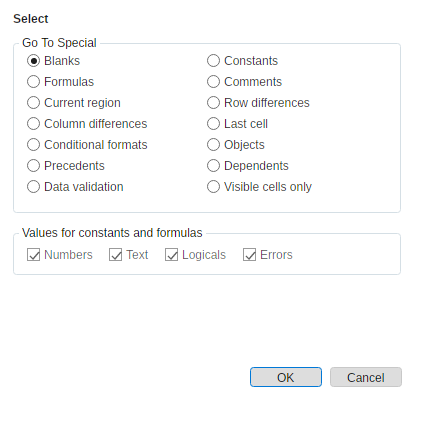
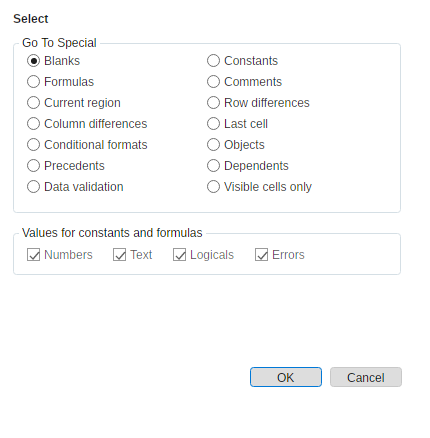
fix(freex): align go to special value options

Changed region(s): [[0.2419, 0.5639, 0.7256, 0.5936]]

diff --git a/tests/FreeX.App.Avalonia.Tests/ParityCaptureTests.cs b/tests/FreeX.App.Avalonia.Tests/ParityCaptureTests.cs
@@ -436,6 +436,8 @@ public sealed class ParityCaptureTests
                 CountExactColorOnRow(image, 274, red: 213, green: 223, blue: 229)
                     .Should().BeGreaterThan(300,
                         "the bottom value-type border should remain at the WPF-aligned action-row separation");
+                var checkboxAnchors = FindDarkRunStartsOnRow(image, 248, minimumLength: 12);
+                checkboxAnchors.Should().Equal([27, 113, 173, 255]);
 
                 window.Close();
             }, CancellationToken.None);
@@ -552,6 +554,39 @@ public sealed class ParityCaptureTests
         }
 
         return count;
+    }
+
+    private static IReadOnlyList<int> FindDarkRunStartsOnRow(
+        PixelImage image,
+        int y,
+        int minimumLength)
+    {
+        var starts = new List<int>();
+        var runStart = -1;
+
+        for (var x = 0; x <= image.Width; x++)
+        {
+            var isDark = false;
+            if (x < image.Width)
+            {
+                var offset = (y * image.Width + x) * 4;
+                isDark = image.Pixels[offset + 3] == 255
+                    && image.Pixels[offset] + image.Pixels[offset + 1] + image.Pixels[offset + 2] < 660;
+            }
+
+            if (isDark && runStart < 0)
+            {
+                runStart = x;
+            }
+            else if (!isDark && runStart >= 0)
+            {
+                if (x - runStart >= minimumLength)
+                    starts.Add(runStart);
+                runStart = -1;
+            }
+        }
+
+        return starts;
     }
 
     private static void TryDeleteDirectory(string path)

diff --git a/tests/FreeX.App.Avalonia.Tests/DialogVisualParitySourceTests.cs b/tests/FreeX.App.Avalonia.Tests/DialogVisualParitySourceTests.cs
@@ -34,7 +34,6 @@ public sealed class DialogVisualParitySourceTests
         source.Should().Contain("GoToSpecialDialogPlanner.AvaloniaValueTypeSpacing");
         source.Should().Contain("GoToSpecialDialogPlanner.AvaloniaChoiceButtonRightMargin");
         source.Should().Contain("GoToSpecialDialogPlanner.AvaloniaChoiceButtonBottomMargin");
-        source.Should().Contain("GoToSpecialDialogPlanner.ContentMargin");
         source.Should().Contain("GoToSpecialDialogPlanner.AvaloniaContentLeftMargin");
         source.Should().Contain("GoToSpecialDialogPlanner.AvaloniaContentTopMargin");
         source.Should().Contain("GoToSpecialDialogPlanner.AvaloniaContentRightMargin");
@@ -46,6 +45,9 @@ public sealed class DialogVisualParitySourceTests
         source.Should().Contain("ApplyGoToSpecialButtonSize(cancelButton);");
         source.Should().Contain("var root = new DockPanel { Margin = new Thickness(0) };");
         source.Should().Contain("DockPanel.SetDock(buttonRow, Dock.Bottom);");
+
+        var wpfSource = File.ReadAllText(RepoFile("src", "FreeX.App.Host", "GoToSpecialDialog.cs"));
+        wpfSource.Should().Contain("GoToSpecialDialogPlanner.ContentMargin");
 
         var chrome = File.ReadAllText(RepoFile("shared", "Free.Shared.Shell.Avalonia", "AvaloniaCompactDialogChrome.cs"));
         chrome.Should().Contain("IBrush? borderBrush = null");

diff --git a/tests/FreeX.App.Services.Tests/GoToDialogPlannerTests.cs b/tests/FreeX.App.Services.Tests/GoToDialogPlannerTests.cs
@@ -38,7 +38,7 @@ public sealed class GoToDialogPlannerTests
         GoToSpecialDialogPlanner.AvaloniaChoiceGroupHorizontalPadding.Should().Be(8);
         GoToSpecialDialogPlanner.AvaloniaChoiceGroupBottomPadding.Should().Be(9);
         GoToSpecialDialogPlanner.AvaloniaValueTypeGroupBottomPadding.Should().Be(4);
-        GoToSpecialDialogPlanner.AvaloniaValueTypeSpacing.Should().Be(12);
+        GoToSpecialDialogPlanner.AvaloniaValueTypeSpacing.Should().Be(16);
         GoToSpecialDialogPlanner.AvaloniaChoiceButtonRightMargin.Should().Be(12);
         GoToSpecialDialogPlanner.AvaloniaChoiceButtonBottomMargin.Should().Be(1);
     }

diff --git a/src/FreeX.App.Services/GoToDialogPlanner.cs b/src/FreeX.App.Services/GoToDialogPlanner.cs
@@ -98,7 +98,7 @@ public static class GoToSpecialDialogPlanner
     public const double AvaloniaChoiceGroupHorizontalPadding = 8;
     public const double AvaloniaChoiceGroupBottomPadding = 9;
     public const double AvaloniaValueTypeGroupBottomPadding = 4;
-    public const double AvaloniaValueTypeSpacing = 12;
+    public const double AvaloniaValueTypeSpacing = 16;
     public const double AvaloniaChoiceButtonRightMargin = 12;
     public const double AvaloniaChoiceButtonBottomMargin = 1;
 

diff --git a/docs/parity/avalonia-wpf-cross-app-dashboard.md b/docs/parity/avalonia-wpf-cross-app-dashboard.md
@@ -8,7 +8,7 @@ Generated by `tools/Generate-CrossAppParityDashboard.ps1` from existing generate
 
 | App | Primary evidence | Current generated state | Next slice |
 |---|---|---|---|
-| FreeX | Functional matrix, classifier, dialog inventory, dialog visual evidence, command surface | 531 functional commands; 473 command inventory parity; 0 Avalonia-missing; 0 real classified binding gaps; 48 catalog-backed pseudo-gallery rows (34 conditional-format, 10 font/border, 4 accounting-symbol); 57/57 dialog routes captured on WPF and Avalonia; 93 paired screenshot surface ids, 0 Avalonia-only ids, 0 WPF-only ids; 0 scale-aware dimension mismatches; 1 unresolved high-delta visual review candidates at triage score >= 0.4 (highest 0.41181); 32 raw PNG pixel dimension mismatches, of which 32 normalize by capture DPI. These are coverage/triage metrics, not a visual-parity claim. | Command/dialog route coverage is complete for the generated inputs: all 48 pseudo-gallery rows are catalog-backed in classifier evidence (34 conditional-format rows over 38 runtime catalog items, 10 font/border rows, and 4 accounting-symbol rows), and dialog screenshot evidence has 93 paired WPF/Avalonia manifest surface ids with 0 Avalonia-only ids. This is coverage and size-comparability evidence, not visual parity. The paired screenshots retain 1 unresolved high-delta visual review candidates at triage score >= 0.4 (highest 0.41181); keep those candidates separate from 0 scale-aware dimension mismatch rows and 32 raw PNG pixel dimension mismatches. |
+| FreeX | Functional matrix, classifier, dialog inventory, dialog visual evidence, command surface | 531 functional commands; 473 command inventory parity; 0 Avalonia-missing; 0 real classified binding gaps; 48 catalog-backed pseudo-gallery rows (34 conditional-format, 10 font/border, 4 accounting-symbol); 57/57 dialog routes captured on WPF and Avalonia; 93 paired screenshot surface ids, 0 Avalonia-only ids, 0 WPF-only ids; 0 scale-aware dimension mismatches; 1 unresolved high-delta visual review candidates at triage score >= 0.4 (highest 0.411352); 32 raw PNG pixel dimension mismatches, of which 32 normalize by capture DPI. These are coverage/triage metrics, not a visual-parity claim. | Command/dialog route coverage is complete for the generated inputs: all 48 pseudo-gallery rows are catalog-backed in classifier evidence (34 conditional-format rows over 38 runtime catalog items, 10 font/border rows, and 4 accounting-symbol rows), and dialog screenshot evidence has 93 paired WPF/Avalonia manifest surface ids with 0 Avalonia-only ids. This is coverage and size-comparability evidence, not visual parity. The paired screenshots retain 1 unresolved high-delta visual review candidates at triage score >= 0.4 (highest 0.411352); keep those candidates separate from 0 scale-aware dimension mismatch rows and 32 raw PNG pixel dimension mismatches. |
 | FreeW | Generated command inventory | 870 commands; 451 shared-profile; 0 actionable WPF-missing; 0 actionable Avalonia-missing; 371 profile-shape-only; 43 command-id aliases; 5 platform-only; 0 deferred | Backstage print/export, WordArt/watermark, table/page-composition, shape/object, SmartArt polygon, and chart visual proof now have paired WPF/Avalonia renderer contracts plus no-Word real-capture smoke runs; chart proof also validates shared chart data signatures across hosts. All-up no-Word runner fallback drift is classified as runner evidence hygiene, and the standalone no-Word runner now writes a post-summary readiness manifest with comparable scenario IDs, candidate Word PNG baseline paths, remaining blocker IDs, and an explicit no-authoritative-Word-PNG-parity claim. Next FreeW evidence slices are the same runs with real Word PNG baselines on a Word-capable host and broader Word-authoritative drawing/object/chart/table comparisons. |
 | FreeP | Generated command/evidence inventory | 269 commands; 267 shared-profile; 0 actionable WPF-missing; 0 actionable Avalonia-missing; 2 platform-only; 91 workflow evidence rows | Layout picker, table picker, rich inline table/text editing, shared visible list galleries, picture-bullet import/rendering plus picker/media authoring, slide-pane reorder, bottom New Slide, notes-page preview/PDF rendering, fixed-layout PDF connector, image, triangle-arrowhead, rotation, ellipse, picture-frame/crop/alpha/color-effect, shape-opacity export, and PDF visual-baseline readiness with WPF/Avalonia page-raster artifact patterns plus paired diff-report targets, export/backstage package-handoff, presenter recording backend contracts plus capture-adapter readiness and paired backend injection, captured PPTX media and generated WebVTT caption artifact authoring, focused PowerPoint-native caption package retention including external caption relationship metadata, native media/caption sidecar package depth, and caption relationship-id collision remapping, shared chart number/date label rendering plus edge/mixed manual-layout bounds, surface grid plus projected contour/wireframe/3-D surface geometry plus 3-D pie lower-depth rendering, stock OHLC capture-readiness metadata, and PowerPoint/WPF/Avalonia chart baseline capture readiness, SmartArt basic hierarchy plus vertical bullet list plus basic cycle plus radial cycle plus gear cycle plus text cycle plus basic, continuous block, segmented, chevron, alternating, funnel, circle, and arrow-ribbon process plus basic block list plus vertical box list plus stacked list plus basic pyramid plus bounded pictureCaptionList live layout plus basic/radial/stacked Venn and target-list relationship layouts plus shared outline reorder/promote/demote editing, data-part authoring, text-pane/cache-regeneration authoring, and matching thin WPF/Avalonia text-pane host controls with bounded keyboard routes, header/footer placeholder creation plus inherited layout/master geometry, title-slide suppression, fixed/auto date options, shared OMML fraction-type variants, matrix spacing/base alignment, delimiter grow semantics, accent/bar render-plan coverage, manual line breaks, boxed equation-array alignment points, transparent phantom spacing classes, pre-sub/superscript layout, matrix empty-cell placeholder handling, and group-character vertical justification, ink execution with repeated custom-show route retention, modern comments/review with shared mention candidate and insertion planning, accessibility/proofing workflow depth, animation-pane row/playback workflow evidence, paired real Windows microphone narration handoff, paired Windows camera handoff readiness, paired default no-COM camera handoff/package-target readiness without encoded-payload or PowerPoint-baseline claims, deterministic encoded camera media payload artifacts through host-specific PPTX package paths, and paired OS-backed unavailable-hardware/no-device recording evidence now have WPF/Avalonia no-COM evidence paths. Continue workflow-depth slices in live capture on real microphone/camera hardware, actual local default no-COM camera video encoding that produces non-empty mp4 payloads, calibrated chart-family acceptance thresholds and remaining type-specific decisions beyond the current PowerPoint baseline-depth/type/label captures, broader SmartArt layout families, remaining OMML constructs/alignment semantics and PowerPoint-authoritative math visual-baseline coverage, broader real-deck PowerPoint-native media/caption baselines, actual PowerPoint PDF/PNG capture and calibrated PDF visual diffs on a COM-capable host, and PowerPoint-authoritative animation-pane visual/playback baselines. |
 
@@ -18,7 +18,7 @@ This is a deterministic human-review queue, not a pass/fail result. The threshol
 
 | Surface id | Triage score | Logical dimensions match | Dimension bucket | Review status |
 |---|---:|---|---|---|
-| dialog.GoToSpecial | 0.41181 | True | none | unresolved visual review candidate |
+| dialog.GoToSpecial | 0.411352 | True | none | unresolved visual review candidate |
 
 ## Source Files
 

diff --git a/docs/parity/dialog-visual-evidence-summary.md b/docs/parity/dialog-visual-evidence-summary.md
@@ -48,7 +48,7 @@ Equal logical dimensions, nonblank PNGs, and paired manifest ids establish evide
 
 | Surface id | Score | Logical dimensions match | Dimension bucket | Expected-size mismatch | Review status | Review reason |
 | --- | ---: | --- | --- | --- | --- | --- |
-| dialog.GoToSpecial | 0.412 | True | none | False | unresolved visual review candidate | High image delta requires paired WPF/Avalonia visual review; equal dimensions do not resolve it. |
+| dialog.GoToSpecial | 0.411 | True | none | False | unresolved visual review candidate | High image delta requires paired WPF/Avalonia visual review; equal dimensions do not resolve it. |
 
 ## Scale-Aware Dimension Mismatch Classification
 
@@ -63,7 +63,7 @@ Outliers are ranked by a deterministic triage score: normalized 32x32 ARGB sampl
 
 | Surface id | WPF logical size | Avalonia logical size | Raw PNG sizes | Bucket | Evidence flag | Score | Sample delta | Luma delta | Non-bg delta |
 | --- | ---: | ---: | --- | --- | --- | ---: | ---: | ---: | ---: |
-| dialog.GoToSpecial | 430x438 | 430x438 | 430x438 px @ 96 DPI vs 430x438 px @ 96 DPI |  |  | 0.412 | 0.168 | 0.128 | 0.115 |
+| dialog.GoToSpecial | 430x438 | 430x438 | 430x438 px @ 96 DPI vs 430x438 px @ 96 DPI |  |  | 0.411 | 0.168 | 0.128 | 0.115 |
 | dialog.PivotValueFieldSettings | 430x430 | 430x430 | 430x430 px @ 96 DPI vs 430x430 px @ 96 DPI |  |  | 0.399 | 0.163 | 0.125 | 0.111 |
 | dialog.PivotValueFieldSettings.SummarizeValuesBy | 430x430 | 430x430 | 430x430 px @ 96 DPI vs 430x430 px @ 96 DPI |  |  | 0.399 | 0.163 | 0.125 | 0.111 |
 | dialog.PivotValueFieldSettings.ShowValuesAs | 430x430 | 430x430 | 430x430 px @ 96 DPI vs 430x430 px @ 96 DPI |  |  | 0.399 | 0.163 | 0.125 | 0.110 |
@@ -122,7 +122,7 @@ These rows have a DPI-normalized checked-in PNG size that disagrees with the dia
 | dialog.GoalSeek | dialog.GoalSeek.png | 380x210 | 380x210 px @ 96 DPI | True | dialog.GoalSeek.png | 380x210 | 380x210 px @ 96 DPI | True | True | 0.054 |
 | dialog.GoalSeekStatus | dialog.GoalSeekStatus.png | 380x190 | 380x190 px @ 96 DPI | True | dialog.GoalSeekStatus.png | 380x190 | 380x190 px @ 96 DPI | True | True | 0.089 |
 | dialog.GoTo | dialog.GoTo.png | 420x320 | 630x480 px @ 144 DPI | True | dialog.GoTo.png | 420x320 | 420x320 px @ 96 DPI | True | True | 0.110 |
-| dialog.GoToSpecial | dialog.GoToSpecial.png | 430x438 | 430x438 px @ 96 DPI | True | dialog.GoToSpecial.png | 430x438 | 430x438 px @ 96 DPI | True | True | 0.412 |
+| dialog.GoToSpecial | dialog.GoToSpecial.png | 430x438 | 430x438 px @ 96 DPI | True | dialog.GoToSpecial.png | 430x438 | 430x438 px @ 96 DPI | True | True | 0.411 |
 | dialog.InsertHyperlink | dialog.InsertHyperlink.png | 560x300 | 840x450 px @ 144 DPI | True | dialog.InsertHyperlink.png | 560x300 | 560x300 px @ 96 DPI | True | True | 0.095 |
 | dialog.InsertSlicer | dialog.InsertSlicer.png | 410x270 | 615x405 px @ 144 DPI | True | dialog.InsertSlicer.png | 410x270 | 410x270 px @ 96 DPI | True | True | 0.046 |
 | dialog.InsertTimeline | dialog.InsertTimeline.png | 410x270 | 615x405 px @ 144 DPI | True | dialog.InsertTimeline.png | 410x270 | 410x270 px @ 96 DPI | True | True | 0.040 |
